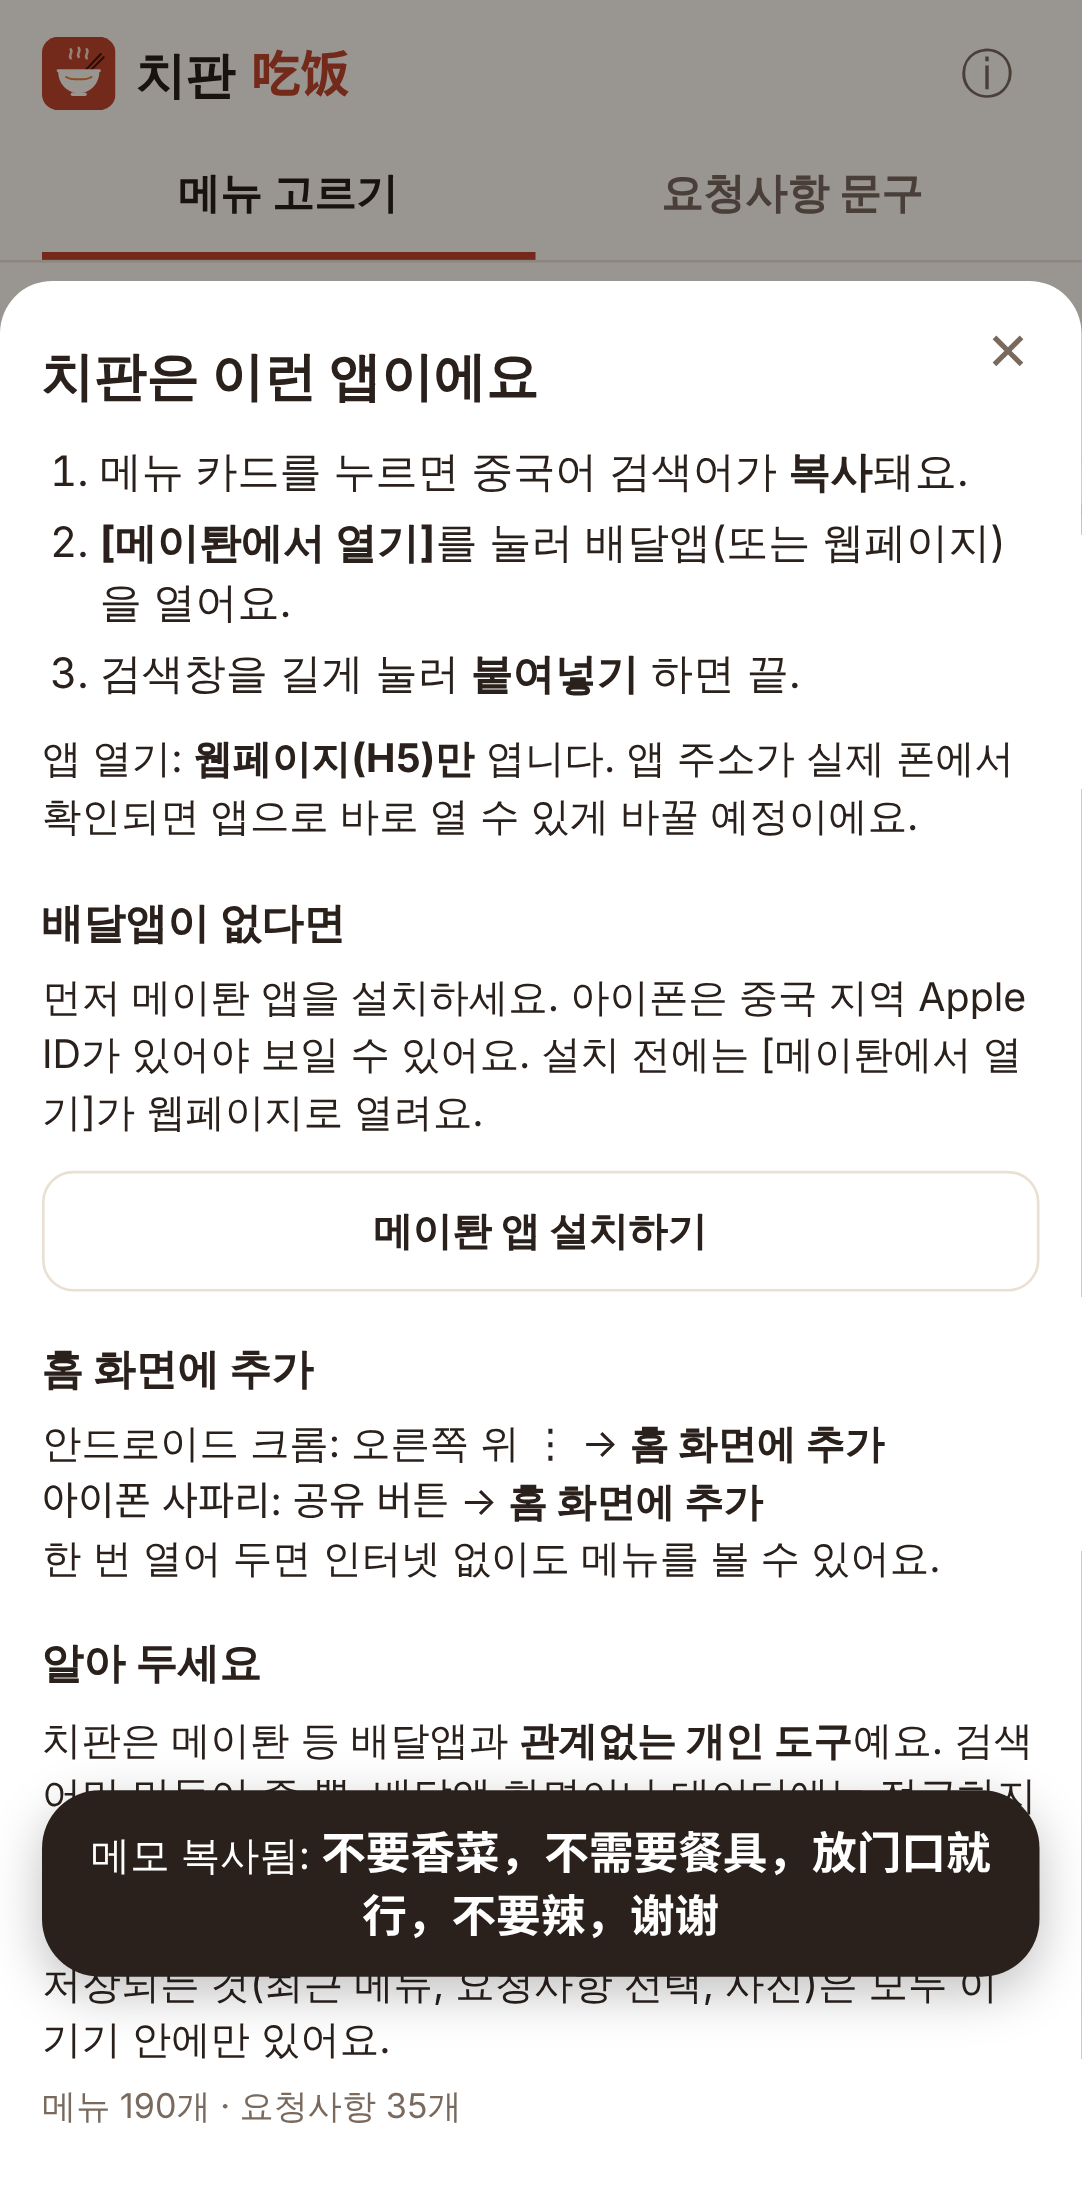
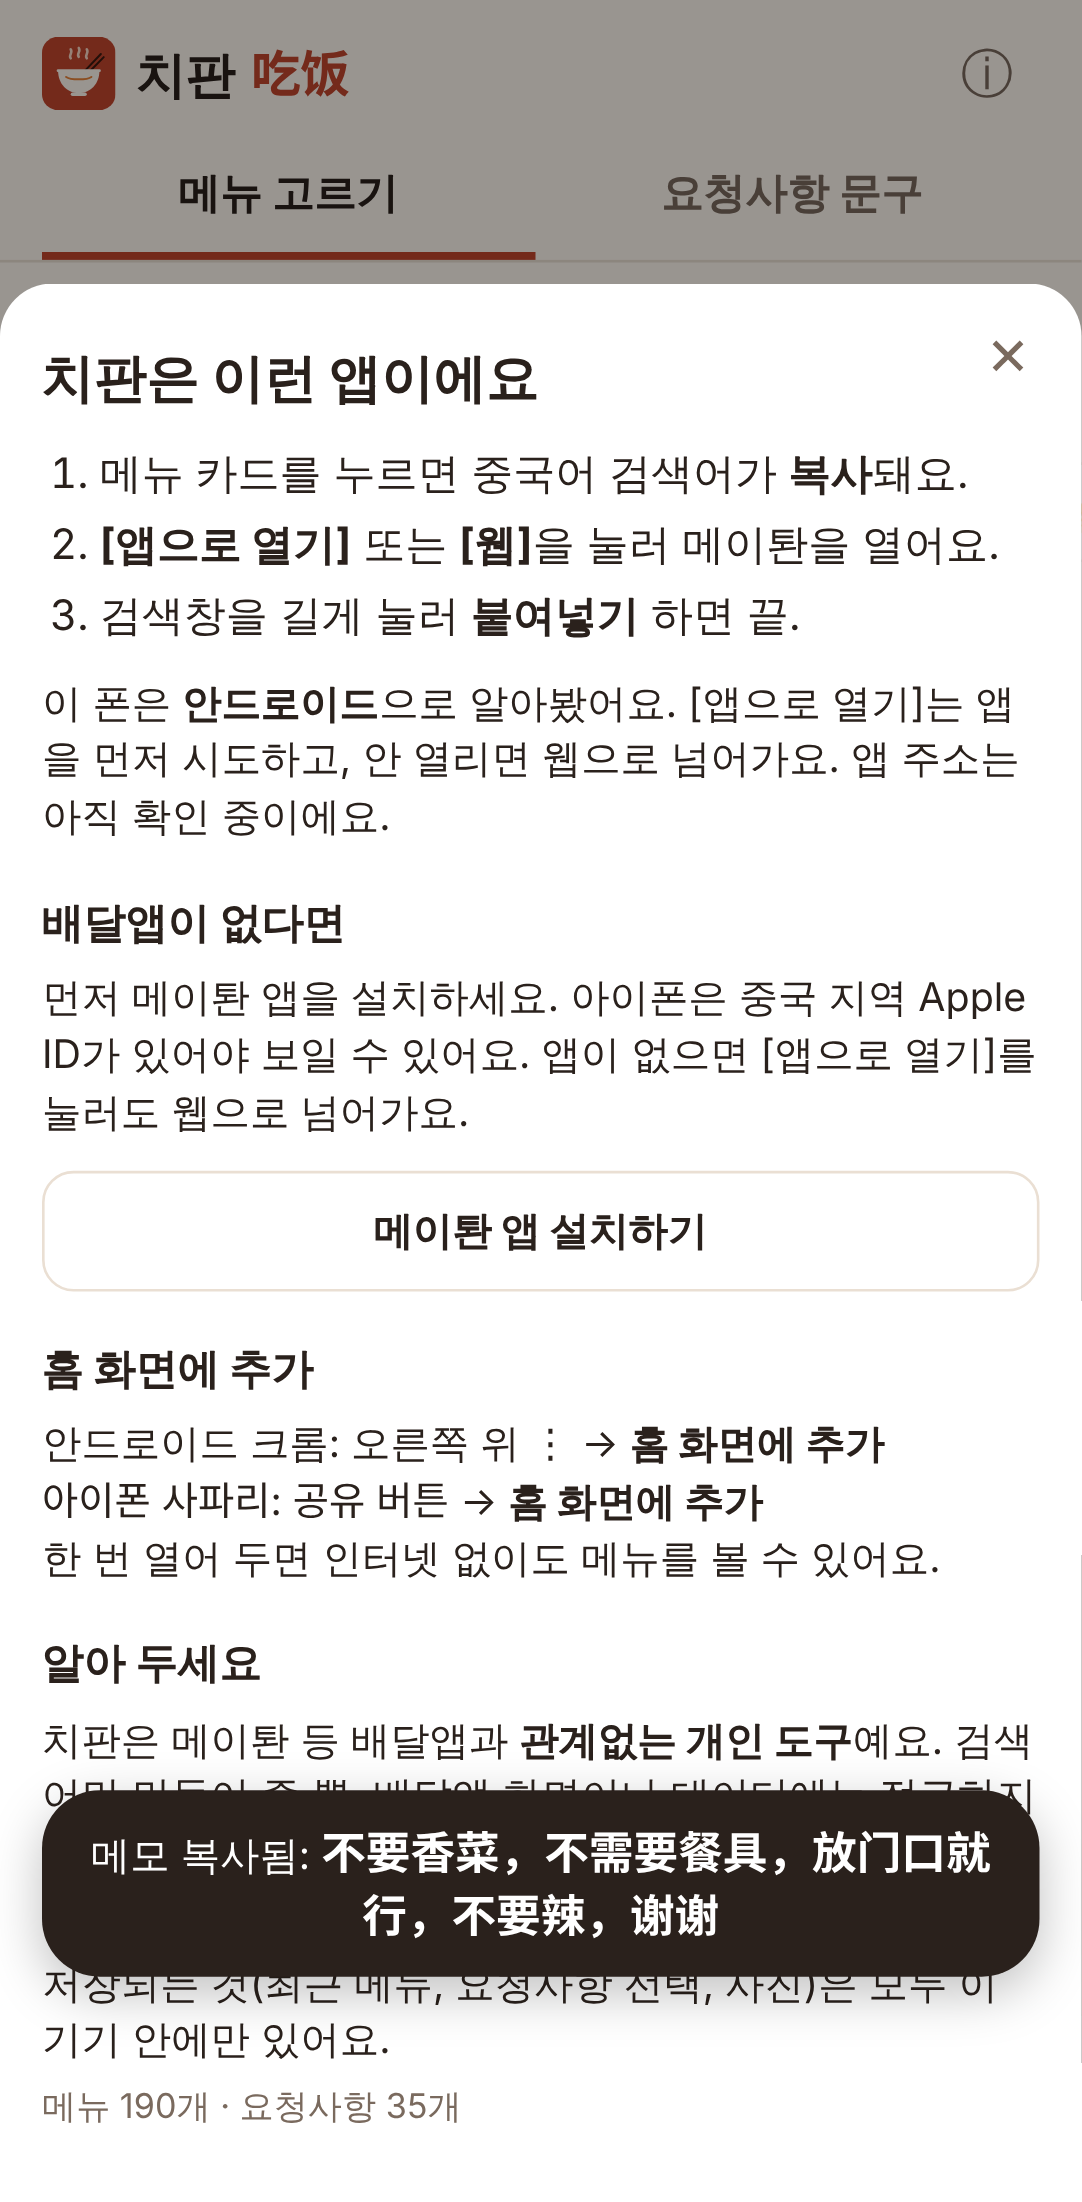
열기 버튼을 [앱으로 열기] / [웹] 두 개로
- 앱: 폰 종류(안드로이드/아이폰) 자동 인식 후 시도, 안 열리면 H5
- 웹 페이지에선 앱 설치 여부를 알 수 없으므로 사용자가 고르게 함
- PC·앱 안 브라우저에서는 [앱으로 열기] 숨김

diff --git a/js/app.js b/js/app.js
@@ -80,12 +80,13 @@
   }
 
   // ---------- 앱 열기 ----------
-  function openApp() {
-    var how = Opener.openDelivery();
+  function openApp(mode) {
+    var how = Opener.openDelivery(mode);
     var msg = S.lastCopied
       ? '검색창을 길게 눌러 <b>붙여넣기</b> 하세요'
       : '먼저 메뉴 카드를 눌러 검색어를 복사해 두면 편해요';
-    if (how === 'h5' && Opener.env.inApp) msg = '앱 안 브라우저라 웹페이지로 열었어요. ' + msg;
+    if (mode === 'app' && how === 'h5' && Opener.env.inApp) msg = '앱 안 브라우저라 웹으로 열었어요. ' + msg;
+    else if (how !== 'h5') msg = '앱이 안 열리면 웹으로 넘어가요. ' + msg;
     toast(msg, 3200);
   }
 
@@ -227,7 +228,8 @@
       (f.check ? '<p class="note">이 중국어 표기는 아직 확인 중이에요. 검색 결과가 이상하면 비슷한 이름으로도 찾아보세요.</p>' : '') +
       '<div class="row">' +
         '<button class="btn primary" data-act="copy">검색어 복사</button>' +
-        '<button class="btn" data-act="open">메이퇀에서 열기</button>' +
+        (Opener.canTryApp() ? '<button class="btn" data-act="openApp">앱으로 열기</button>' : '') +
+        '<button class="btn" data-act="openWeb">웹으로 열기</button>' +
       '</div>' +
       '<div class="row">' +
         '<button class="btn" data-act="camera">📷 사진 찍기</button>' +
@@ -247,21 +249,21 @@
   }
 
   function showAbout() {
-    var cfg = window.CHIFAN_CONFIG, app = cfg.appOpen || {};
-    var openState = app.enabled
-      ? '앱 열기: 켜짐 (안드로이드 intent / iOS 스킴, 실패 시 웹페이지)'
-      : '앱 열기: <b>웹페이지(H5)만</b> 엽니다. 앱 주소가 실제 폰에서 확인되면 앱으로 바로 열 수 있게 바꿀 예정이에요.';
+    var env = Opener.env;
+    var openState = Opener.canTryApp()
+      ? '이 폰은 <b>' + (env.ios ? '아이폰' : '안드로이드') + '</b>으로 알아봤어요. [앱으로 열기]는 앱을 먼저 시도하고, 안 열리면 웹으로 넘어가요. 앱 주소는 아직 확인 중이에요.'
+      : (env.inApp ? '앱 안 브라우저에서는 웹으로만 열 수 있어요.' : '이 기기에서는 웹으로 열어요.');
     openSheet(
       '<h2>치판은 이런 앱이에요</h2>' +
       '<ol class="steps">' +
         '<li>메뉴 카드를 누르면 중국어 검색어가 <b>복사</b>돼요.</li>' +
-        '<li><b>[메이퇀에서 열기]</b>를 눌러 배달앱(또는 웹페이지)을 열어요.</li>' +
+        '<li><b>[앱으로 열기]</b> 또는 <b>[웹]</b>을 눌러 메이퇀을 열어요.</li>' +
         '<li>검색창을 길게 눌러 <b>붙여넣기</b> 하면 끝.</li>' +
       '</ol>' +
       '<p>' + openState + '</p>' +
       '<h3>배달앱이 없다면</h3>' +
       '<p>먼저 메이퇀 앱을 설치하세요. 아이폰은 중국 지역 Apple ID가 있어야 보일 수 있어요. ' +
-      '설치 전에는 [메이퇀에서 열기]가 웹페이지로 열려요.</p>' +
+      '앱이 없으면 [앱으로 열기]를 눌러도 웹으로 넘어가요.</p>' +
       '<div class="row"><button class="btn" data-act="installApp">메이퇀 앱 설치하기</button></div>' +
       '<h3>홈 화면에 추가</h3>' +
       '<p>안드로이드 크롬: 오른쪽 위 ⋮ → <b>홈 화면에 추가</b><br>아이폰 사파리: 공유 버튼 → <b>홈 화면에 추가</b><br>한 번 열어 두면 인터넷 없이도 메뉴를 볼 수 있어요.</p>' +
@@ -379,7 +381,9 @@
       }
     });
 
-    $('#openBtn').addEventListener('click', openApp);
+    $('#openAppBtn').addEventListener('click', function () { openApp('app'); });
+    $('#openWebBtn').addEventListener('click', function () { openApp('web'); });
+    $('#openAppBtn').hidden = !Opener.canTryApp();
     $('#installBtn').addEventListener('click', openInstall);
     $('#setupDone').addEventListener('click', function () { LS.set('setupDone', true); $('#setupCard').hidden = true; });
     $('#aboutBtn').addEventListener('click', showAbout);
@@ -392,7 +396,7 @@
       if (!b) return;
       var act = b.getAttribute('data-act'), f = S.sheetFood;
       if (act === 'copy' && f) copyFood(f);
-      else if (act === 'open') { closeSheet(); openApp(); }
+      else if (act === 'openApp' || act === 'openWeb') { closeSheet(); openApp(act === 'openApp' ? 'app' : 'web'); }
       else if (act === 'camera') pickPhoto(true);
       else if (act === 'pick') pickPhoto(false);
       else if (act === 'rmphoto' && f) {

diff --git a/tests/screens.js b/tests/screens.js
@@ -64,10 +64,20 @@ async function run(browser, name, dev) {
   assert.strictEqual(await page.evaluate(() => navigator.clipboard.readText()), '麻辣烫');
   await shot('02-copied');
 
-  // 2) [메이퇀에서 열기] → 설정상 H5만 (사용자 탭에서만)
+  // 2) 열기: 로드 시 자동 이동 없음. [웹] → H5, [앱으로 열기] → 폰 종류 자동 인식 후 앱 시도, 안 되면 H5
   assert.deepStrictEqual(await page.evaluate(() => window.__opened), [], '로드 시 자동으로 열면 안 됨');
-  await page.click('#openBtn');
+  await page.click('#openWebBtn');
   assert.deepStrictEqual(await page.evaluate(() => window.__opened), [H5]);
+  await page.evaluate(() => { window.__went = []; });
+  await page.click('#openAppBtn');
+  if (name === 'pixel7') {
+    assert.deepStrictEqual(await page.evaluate(() => window.__went),
+      ['intent://#Intent;scheme=imeituan;package=com.sankuai.meituan;S.browser_fallback_url=' + encodeURIComponent(H5) + ';end']);
+  } else {
+    assert.deepStrictEqual(await page.evaluate(() => window.__went), ['imeituan://']);
+    await page.waitForTimeout(1800); // 앱이 안 열리면 웹으로
+    assert.deepStrictEqual(await page.evaluate(() => window.__went), ['imeituan://', H5]);
+  }
 
   // 3) 한국어 검색: 초성 / 부분 / 입력 중
   const search = async q => {
@@ -141,6 +151,7 @@ async function inApp(browser) {
   await page.goto(BASE);
   await page.waitForSelector('.card');
   assert.ok(await page.isVisible('#inappBanner'));
+  assert.ok(!(await page.isVisible('#openAppBtn')), '앱 안 브라우저에서는 [앱으로 열기] 숨김');
   await page.click('#setupDone');
   await page.screenshot({ path: path.join(out, 'pixel7-08-inapp.png') });
   await ctx.close();

diff --git a/js/open.js b/js/open.js
@@ -41,10 +41,11 @@
     go(url);
   }
 
+  // mode: 'app' = 앱 시도 후 안 되면 웹, 'web' = 웹만.
   // 어떤 방식으로 열었는지 돌려준다: 'h5' | 'android-intent' | 'ios-scheme'
-  function openDelivery() {
+  function openDelivery(mode) {
     var cfg = window.CHIFAN_CONFIG, h5 = cfg.h5Url, app = cfg.appOpen || {};
-    if (!app.enabled || env.inApp) { openH5(h5); return 'h5'; }
+    if (mode !== 'app' || !app.enabled || env.inApp) { openH5(h5); return 'h5'; }
     if (env.android && app.android && app.android.package) { go(androidIntent(app.android, h5)); return 'android-intent'; }
     if (env.ios && app.ios && app.ios.url) { tryThen(app.ios.url, h5, app.ios.fallbackMs); return 'ios-scheme'; }
     openH5(h5);
@@ -61,5 +62,11 @@
     return 'web-store';
   }
 
-  window.Opener = { env: env, openDelivery: openDelivery, openInstall: openInstall, androidIntent: androidIntent };
+  // 앱 열기를 시도할 수 있는 폰인가 (안드로이드·아이폰, 앱 안 브라우저 제외)
+  function canTryApp() {
+    var app = window.CHIFAN_CONFIG.appOpen || {};
+    return !!app.enabled && !env.inApp && (env.android || env.ios);
+  }
+
+  window.Opener = { env: env, canTryApp: canTryApp, openDelivery: openDelivery, openInstall: openInstall, androidIntent: androidIntent };
 })();

diff --git a/js/config.js b/js/config.js
@@ -1,13 +1,15 @@
 // 앱 여는 주소는 이 파일 한 곳에만 둔다.
 // 아래 스킴·패키지명은 아직 실제 폰에서 확인되지 않은 추정값이다.
-// 확인 전까지 appOpen.enabled = false → [메이퇀에서 열기]는 H5 페이지만 연다.
+// 화면에는 [앱으로 열기]와 [웹] 두 버튼이 있다. 사용자가 고른다.
+// [앱으로 열기]는 폰 종류(안드로이드/아이폰)를 자동으로 알아보고 앱을 시도하며, 안 열리면 H5로 넘어간다.
+// appOpen.enabled = false로 두면 [앱으로 열기] 버튼을 숨긴다(웹만).
 // 실기기에서 확인되면 값을 고치고 README의 "확인된 값" 표에 날짜와 함께 기록할 것.
 window.CHIFAN_CONFIG = {
   // 배달 H5 홈 (앱이 없거나 앱 열기가 꺼져 있을 때 여는 주소)
   h5Url: 'https://h5.waimai.meituan.com/waimai/mindex/home',
 
   appOpen: {
-    enabled: false,              // 실기기 확인 전에는 false 유지
+    enabled: true,               // 사용자가 [앱으로 열기]를 고를 때만 시도. 실패하면 H5
 
     android: {
       // intent://<path>#Intent;scheme=<scheme>;package=<package>;S.browser_fallback_url=<h5>;end

diff --git a/index.html b/index.html
@@ -73,7 +73,10 @@
 
 <div class="dock" id="dock">
   <div class="dock-text" id="dockText">카드를 누르면 중국어 검색어가 복사돼요</div>
-  <button class="btn primary" id="openBtn">메이퇀에서 열기</button>
+  <div class="dock-btns">
+    <button class="btn" id="openWebBtn" aria-label="메이퇀 웹으로 열기">웹</button>
+    <button class="btn primary" id="openAppBtn" aria-label="메이퇀 앱으로 열기">앱으로 열기</button>
+  </div>
 </div>
 
 <div class="toast" id="toast" role="status" aria-live="polite"></div>

diff --git a/css/style.css b/css/style.css
@@ -250,3 +250,6 @@ body.no-dock .toast { bottom: calc(env(safe-area-inset-bottom) + 24px); }
 .setup-text span { font-size: 14px; color: var(--muted); }
 .setup-actions { display: flex; gap: 8px; margin-top: 10px; }
 .setup-actions .btn.primary { flex: 1; }
+
+.dock-btns { display: flex; gap: 6px; flex: none; }
+.dock-btns .btn { padding: 11px 13px; }

diff --git a/sw.js b/sw.js
@@ -1,5 +1,5 @@
 // 오프라인용 서비스워커. 파일을 바꾸면 VERSION을 올릴 것.
-var VERSION = 'chifan-v3';
+var VERSION = 'chifan-v4';
 var CORE = [
   './',
   'index.html',

diff --git a/README.md b/README.md
@@ -24,7 +24,7 @@
 | 앱 설치 안내 | 첫 화면 위 카드: **[앱 설치하기]** → 스토어 열기 + `美团` 복사(스토어 검색창에 붙여넣기용). **[이미 있어요]**로 숨김. 정보(ⓘ)에도 설치 버튼 |
 | 메뉴 고르기 | 카테고리 10개 탭 → 카드 그리드. 카드에 중국어(크게)·병음·한국어 이름·한 줄 설명·맵기 |
 | 검색어 복사 | 카드를 누르면 중국어 검색어 자동 복사 + “복사됨: 麻辣烫” 토스트. 하단 바에 마지막 검색어 표시 |
-| 앱 열기 | 하단 **[메이퇀에서 열기]** 버튼. 사용자가 누를 때만 연다. 지금은 **H5 페이지만** 연다(아래 참고) |
+| 앱 열기 | 하단 **[앱으로 열기]** / **[웹]** 두 버튼, 사용자가 고른다. 누를 때만 연다. 앱은 폰 종류를 자동 인식해 시도하고 안 열리면 웹으로(아래 참고) |
 | 한국어 검색 | 이름·별칭 부분 일치, 초성(`ㅁㄹㅌ`, `ㅉㅈㅁ`), 입력 중인 글자(`말` → 마라탕), 중국어·병음(`mala`)도 됨 |
 | 요청사항 문구 | 35개 문구를 골라 중국어 주문 메모(`少辣，不要香菜，不需要餐具…`)로 복사. 서로 겹치는 것(맵기, 얼음 등)은 하나만 |
 | 내 사진 | 카드의 📷 → 상세 화면에서 사진 찍기/앨범에서 고르기. **이 기기 IndexedDB에만** 저장(긴 변 720px JPEG로 줄여서) |
@@ -46,11 +46,14 @@
 앱 여는 주소는 **`js/config.js` 한 곳**에만 있다.
 
 1. 카드를 누르면 검색어가 클립보드에 복사된다. (검색어를 앱에 직접 넘기는 딥링크 형식은 공개돼 있지 않아서 클립보드가 기본)
-2. **[메이퇀에서 열기]** → `appOpen.enabled`가
-   - `false`(현재 기본값): H5 `https://h5.waimai.meituan.com/waimai/mindex/home` 를 새 탭으로 연다.
-   - `true`: 안드로이드는 `intent://<path>#Intent;scheme=<scheme>;package=<package>;S.browser_fallback_url=<H5>;end`,
+2. 하단 바에서 사용자가 고른다.
+   - **[웹]**: H5 `https://h5.waimai.meituan.com/waimai/mindex/home` 를 새 탭으로 연다.
+   - **[앱으로 열기]**: 폰 종류를 User-Agent로 자동 인식한다.
+     안드로이드는 `intent://<path>#Intent;scheme=<scheme>;package=<package>;S.browser_fallback_url=<H5>;end`,
      iOS는 URL 스킴을 시도하고 `fallbackMs`(1.6초) 안에 페이지가 숨겨지지 않으면 H5로 넘어간다.
-     인앱 브라우저에서는 앱 열기를 시도하지 않고 H5로 연다.
+     PC나 앱 안 브라우저(카톡·위챗 등)에서는 이 버튼을 숨긴다.
+   - 웹 페이지는 앱이 **설치돼 있는지 알 수 없다.** 그래서 자동으로 고르지 않고 두 버튼을 둔다.
+   - `appOpen.enabled: false`로 두면 [앱으로 열기]를 숨긴다(웹만).
 3. 사용자가 앱 검색창을 길게 눌러 붙여넣기.
 
 페이지가 열리자마자 앱으로 넘기는 동작은 없다(브라우저가 막거나 확인창을 띄우므로). 모든 이동은 사용자 탭에서만.
